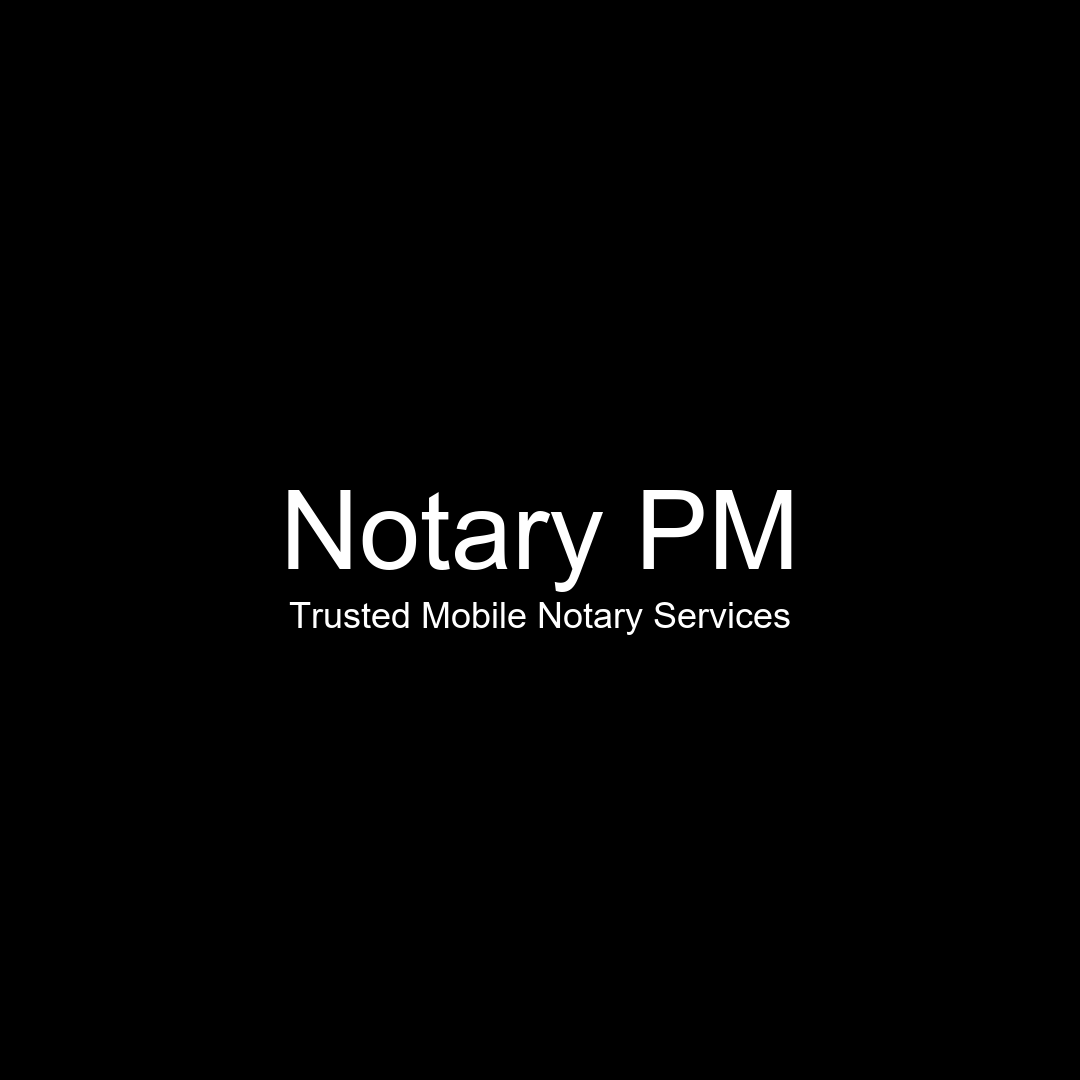
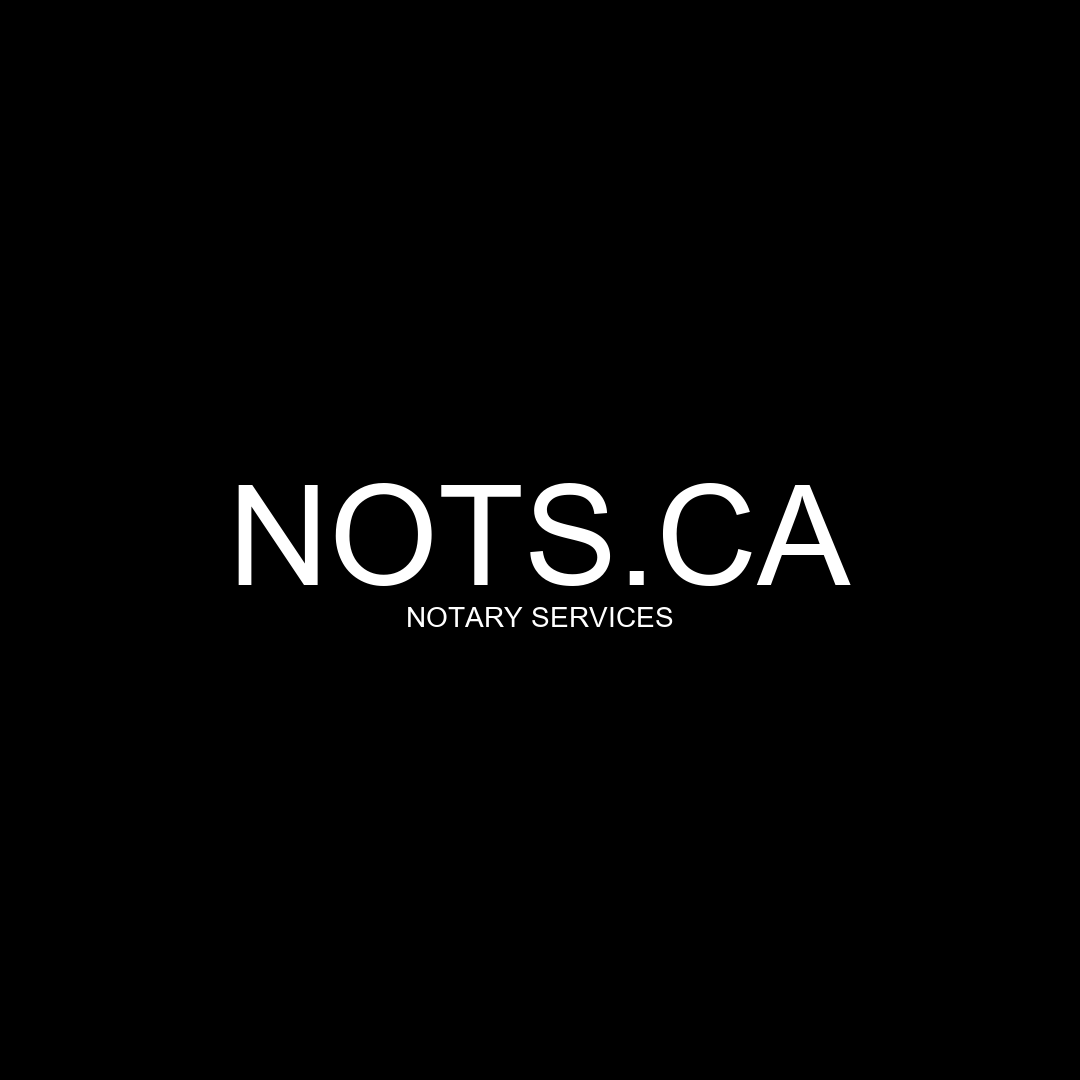
Update social media preview images with NOTS.CA branding

Changed region(s): [[0.2139, 0.4278, 0.7944, 0.5806]]

diff --git a/generate_social_preview.py b/generate_social_preview.py
@@ -1,10 +1,10 @@
-from PIL import Image, ImageDraw, ImageFont
+from PIL import Image, ImageDraw, ImageFont
 from pathlib import Path
 
-base = Path(r'd:\Desktop\HD18\Notary PM')
+base = Path(r'd:\Desktop\SORT\NotaryPM')
 font_path = r'C:\Windows\Fonts\arial.ttf'
-main_font = ImageFont.truetype(font_path, 110)
-sub_font = ImageFont.truetype(font_path, 36)
+main_font = ImageFont.truetype(font_path, 140)
+sub_font = ImageFont.truetype(font_path, 28)
 
 for width, height, name in [
     (1200, 630, 'social-preview.png'),
@@ -13,19 +13,19 @@ for width, height, name in [
     img = Image.new('RGB', (width, height), '#000000')
     draw = ImageDraw.Draw(img)
 
-    title = 'Notary Services'
+    title = 'NOTS.CA'
     bbox = draw.textbbox((0, 0), title, font=main_font)
     text_w = bbox[2] - bbox[0]
     text_h = bbox[3] - bbox[1]
     x = (width - text_w) // 2
-    y = (height - text_h) // 2 - 20
+    y = (height - text_h) // 2 - 30
     draw.text((x, y), title, fill='white', font=main_font)
 
-    sub = 'Trusted Mobile Notary Services'
+    sub = 'NOTARY SERVICES'
     bbox2 = draw.textbbox((0, 0), sub, font=sub_font)
     text_w2 = bbox2[2] - bbox2[0]
     text_h2 = bbox2[3] - bbox2[1]
-    draw.text(((width - text_w2) // 2, y + text_h + 24), sub, fill='white', font=sub_font)
+    draw.text(((width - text_w2) // 2, y + text_h + 40), sub, fill='white', font=sub_font)
 
     img.save(base / name, format='PNG')
     print(f'Generated {base / name}')